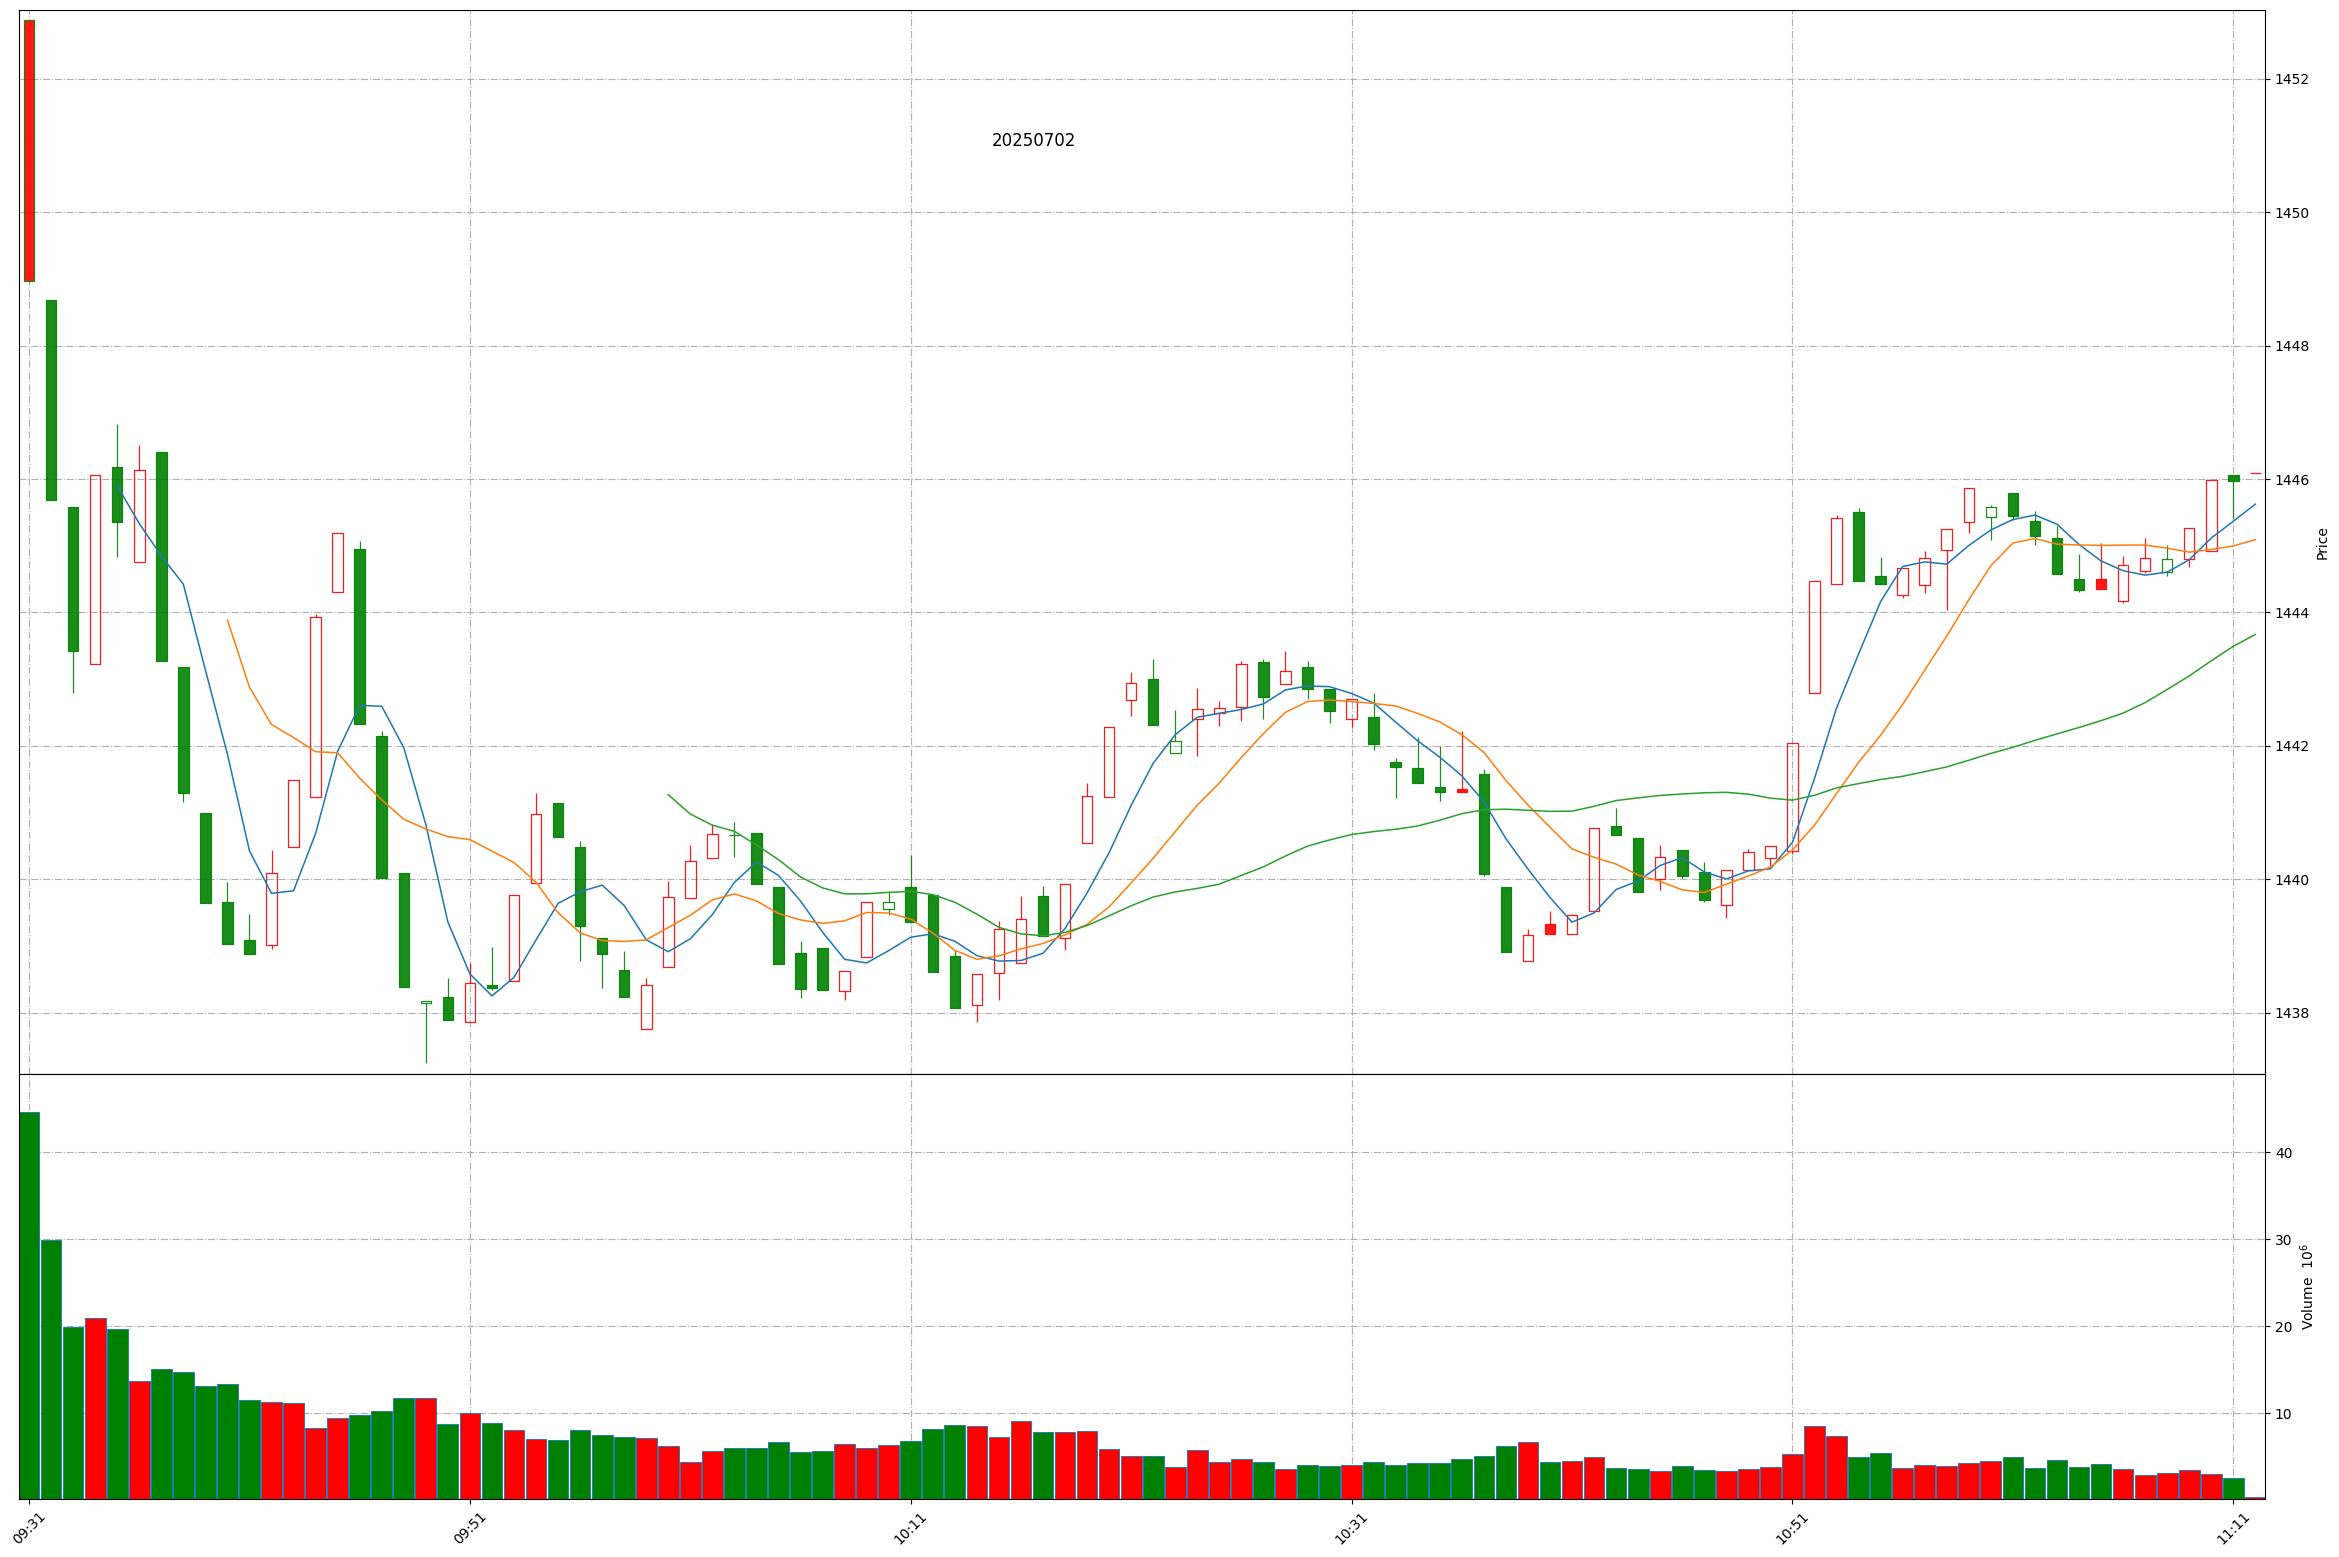
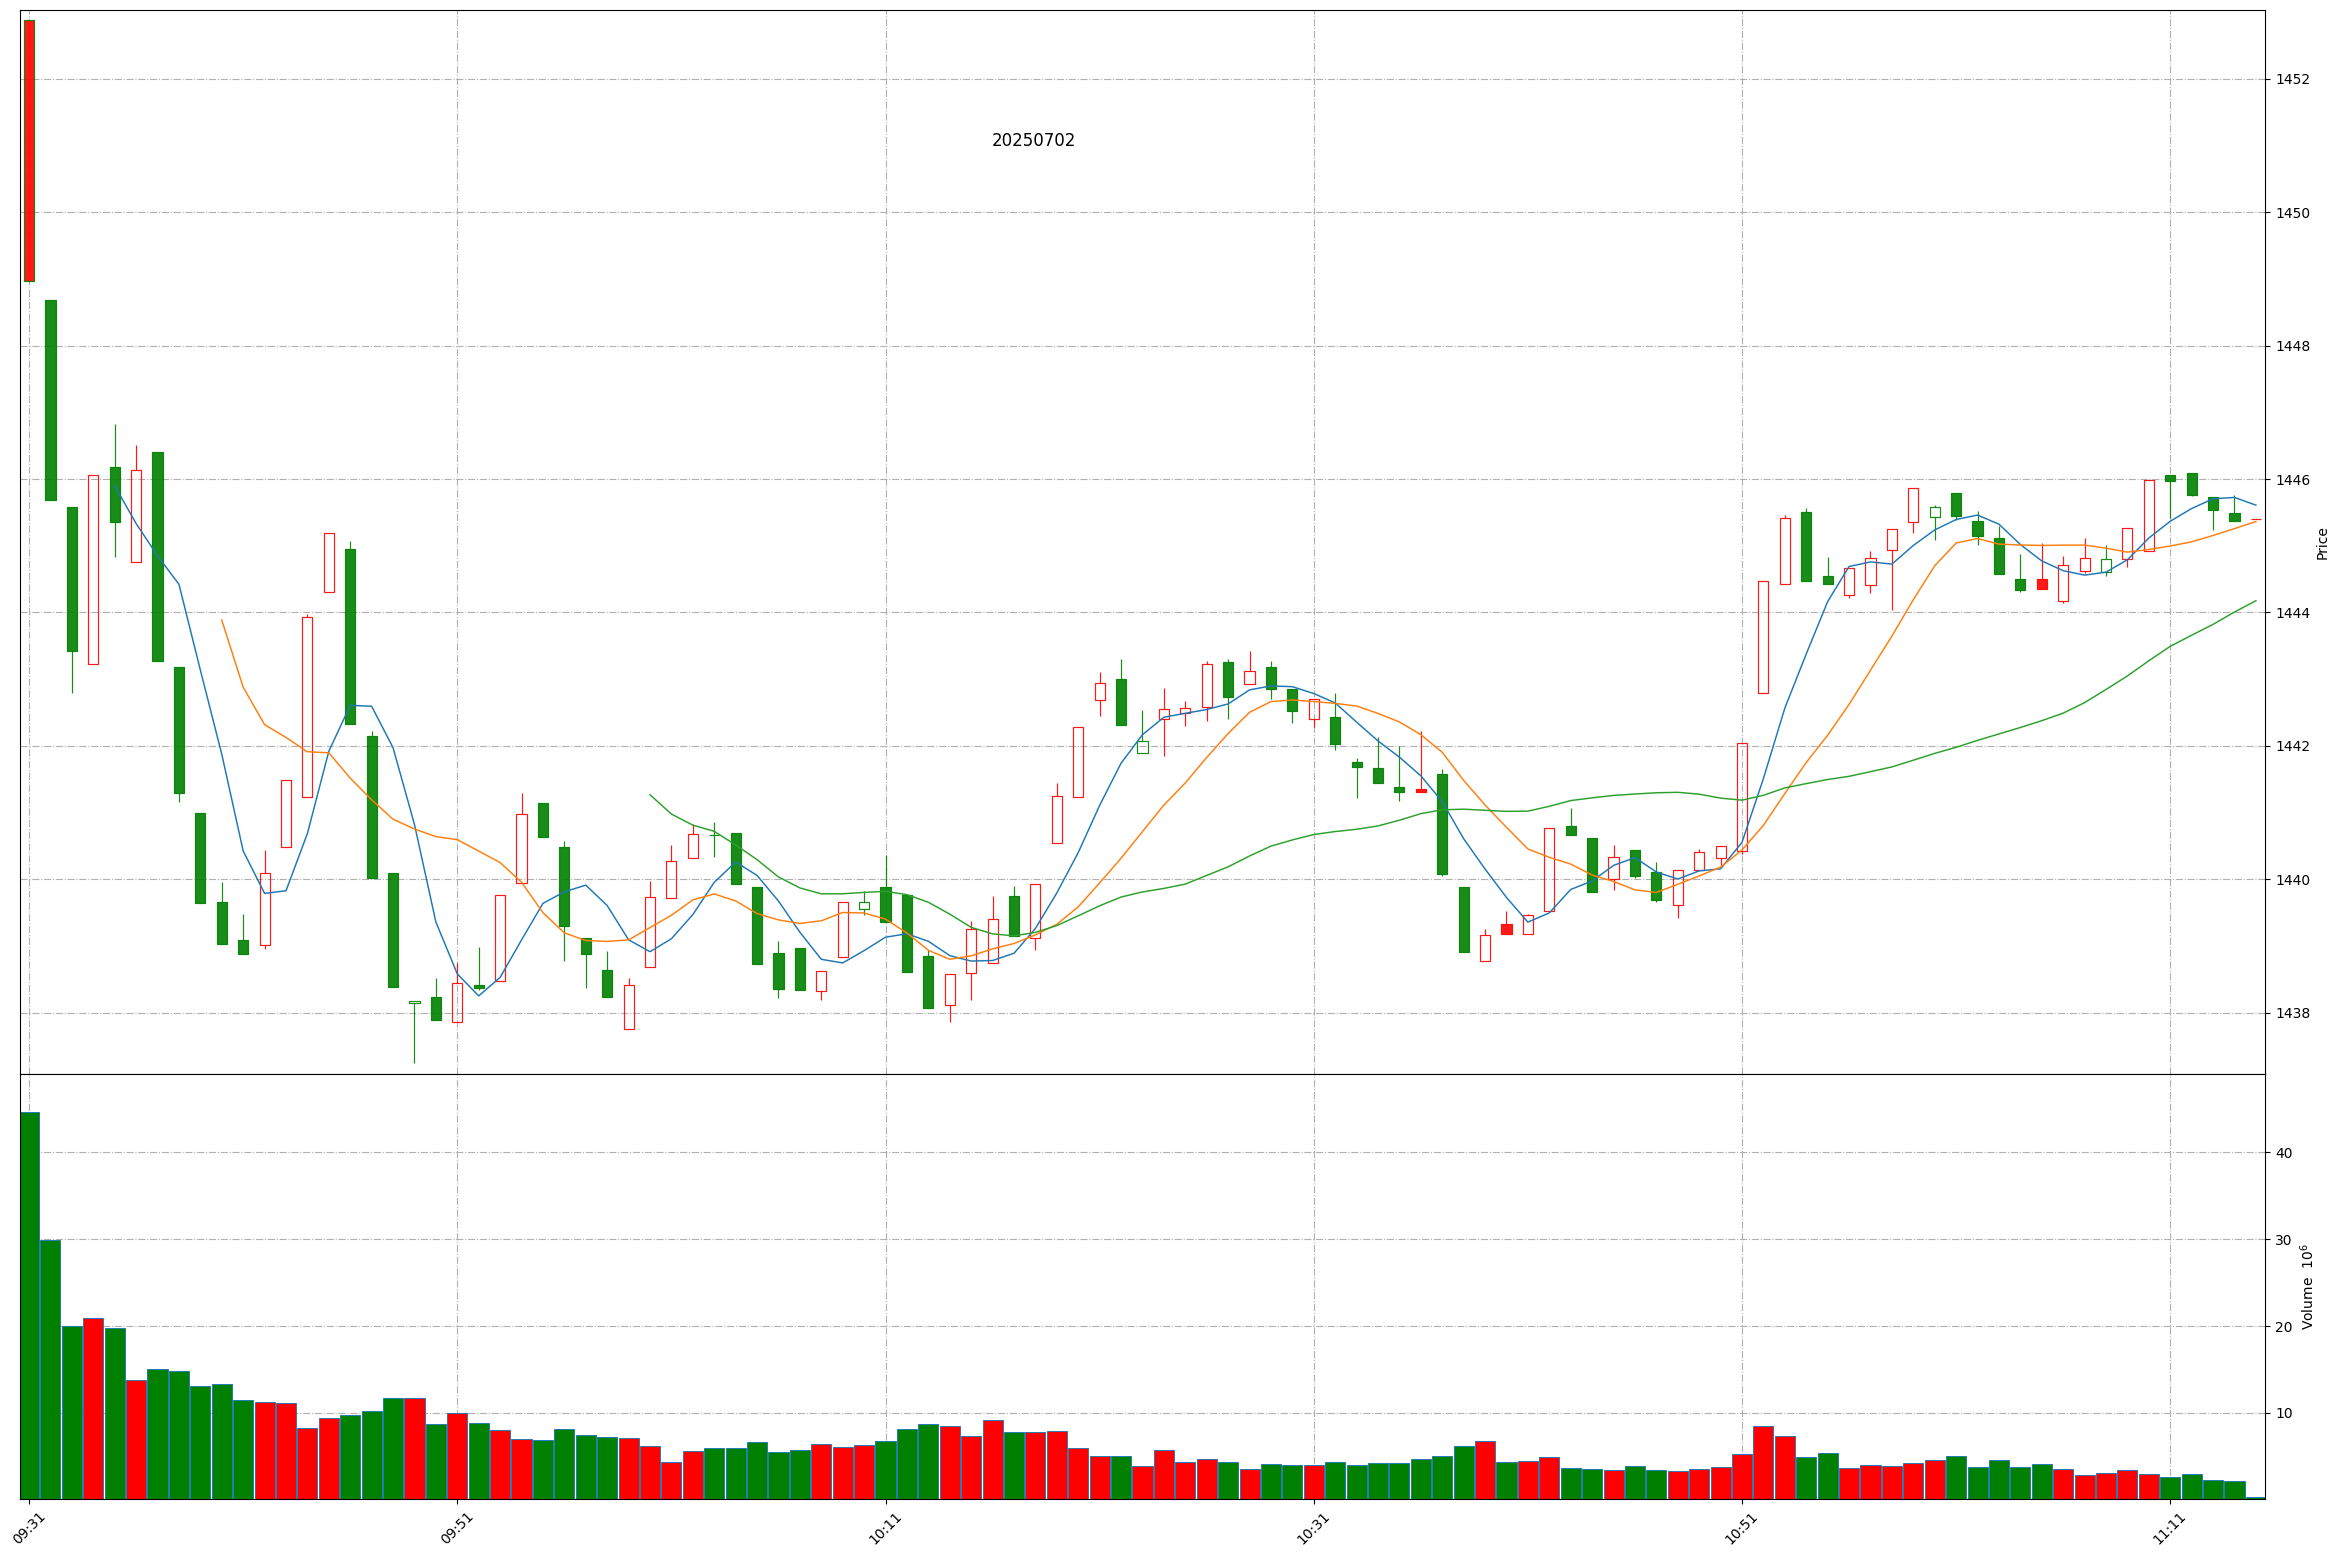
Github action update at 2025-07-02 11:14:12.

diff --git a/README.md b/README.md
@@ -1,11 +1,11 @@
 
 # Daily-A-share-market-quotes 每日 A 股指数（5min 更新）- 20250702
 
-### 上证指数 20250702 11:11
+### 上证指数 20250702 11:14
 ![](./fig/2025/7/20250702-sh000001.png)
 
-### 深证成指 20250702 11:11
+### 深证成指 20250702 11:14
 ![](./fig/2025/7/20250702-sz399001.png)
 
-### 北证50 20250702 11:11
+### 北证50 20250702 11:14
 ![](./fig/2025/7/20250702-bj899050.png)
